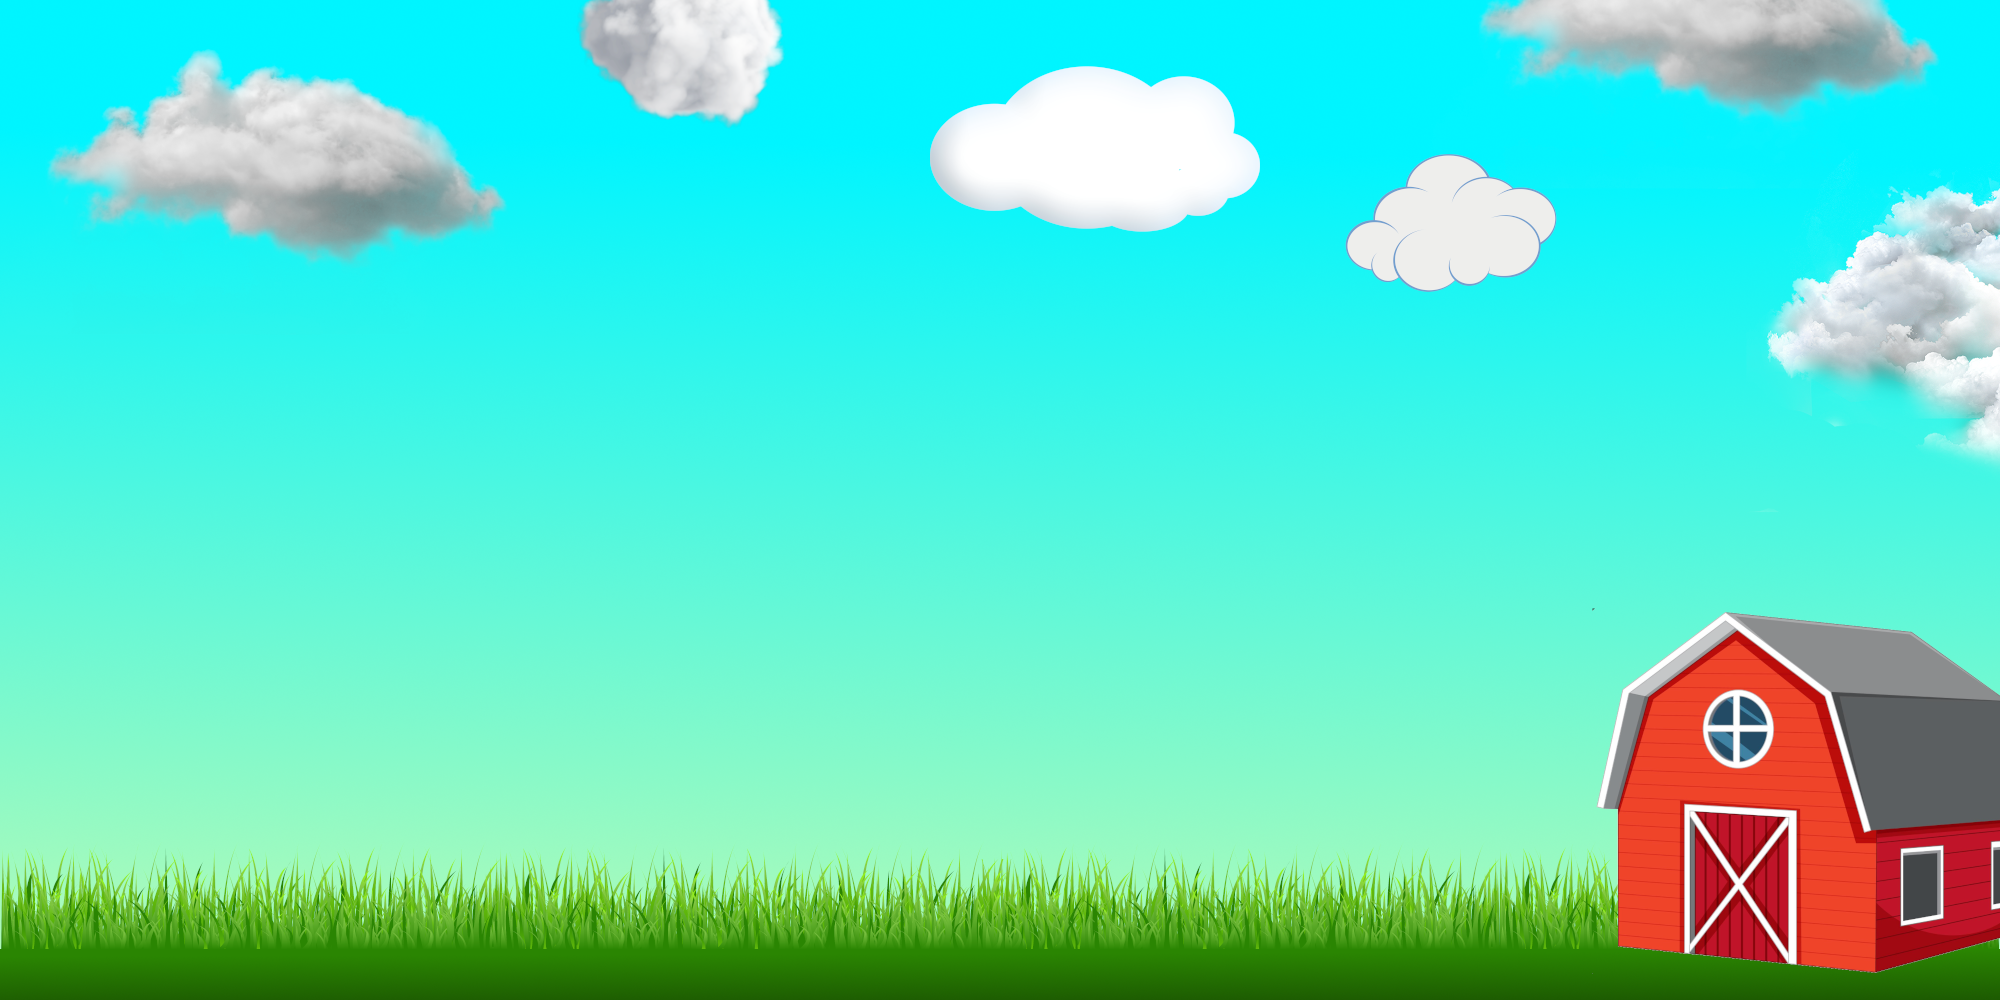
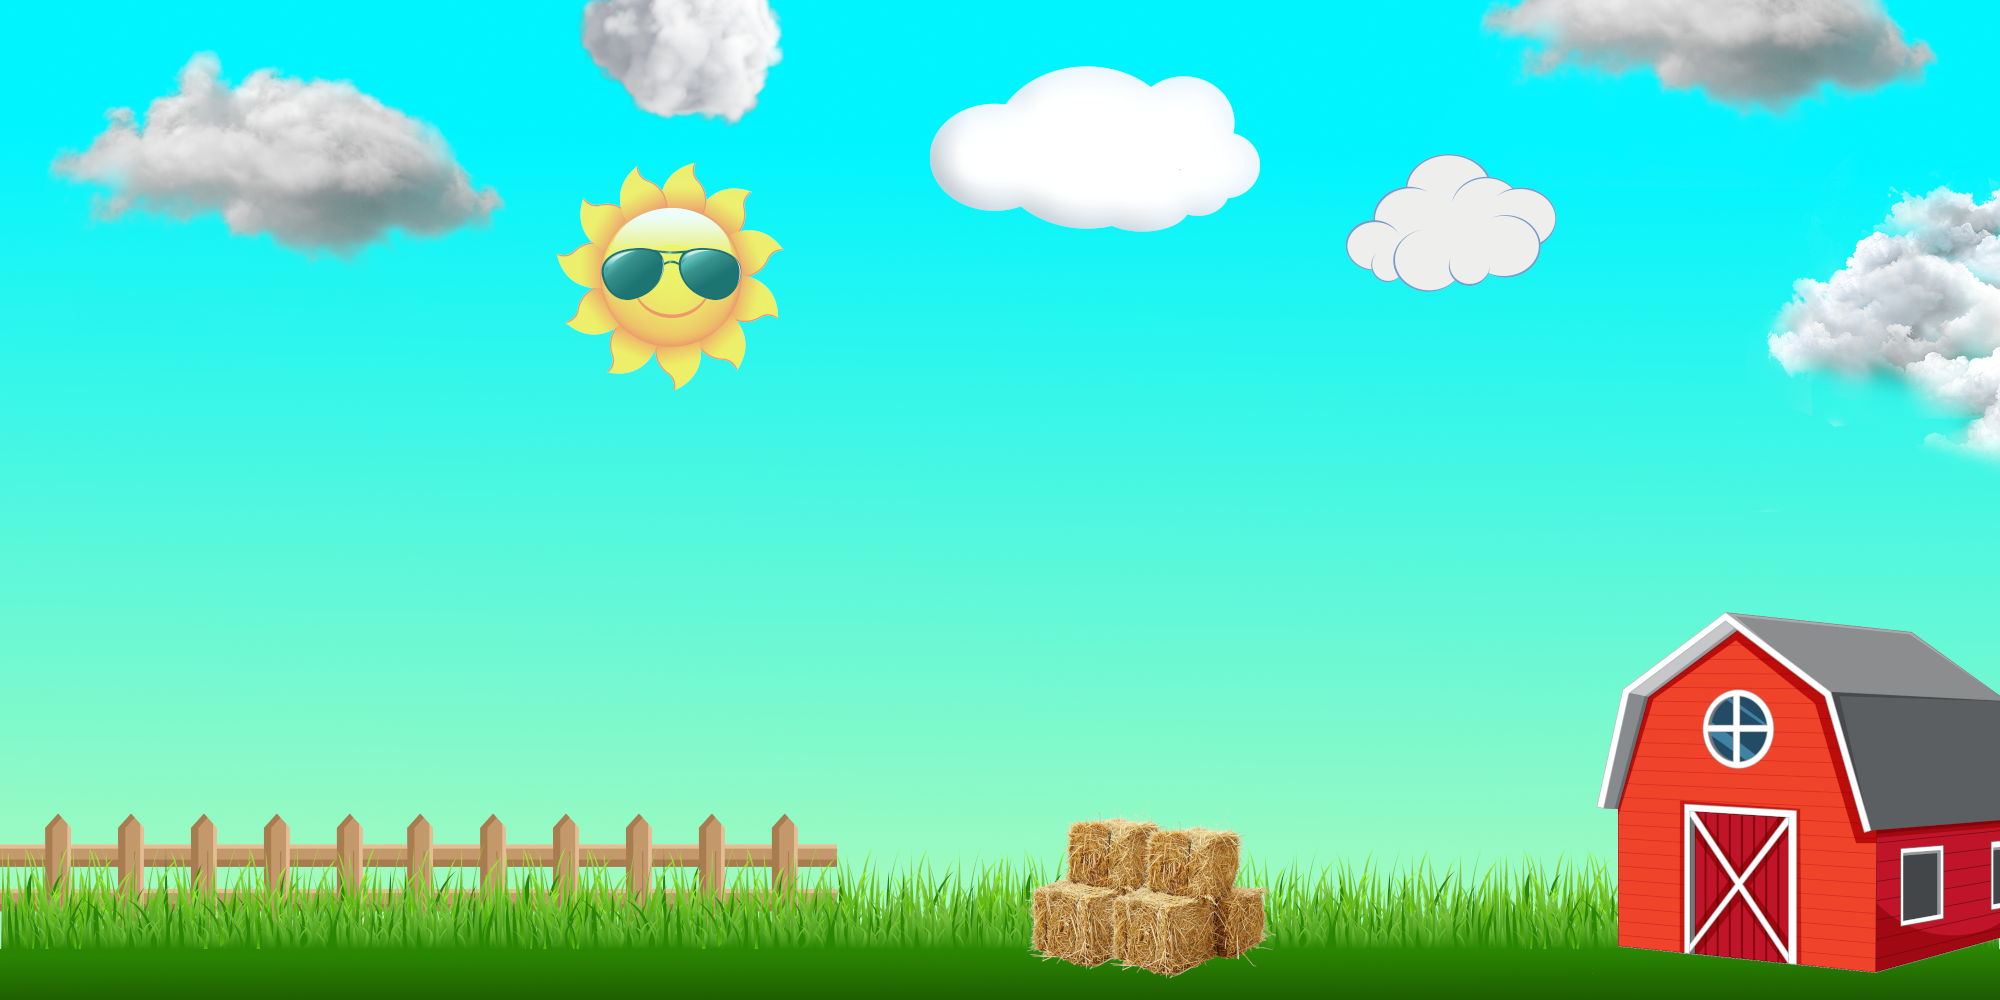
SHEEP UI

Changed region(s): [[0.0, 0.806, 0.434, 0.93], [0.279, 0.155, 0.403, 0.403], [0.496, 0.806, 0.651, 0.992]]

diff --git a/BaaaEditor.h b/BaaaEditor.h
@@ -8,6 +8,7 @@ class BaaaLookAndFeel : public juce::LookAndFeel_V4
     juce::Colour outlineColour = juce::Colours::lightcyan;
     juce::Colour innerColour = juce::Colours::darkgreen;
     juce::PathStrokeType stroke = juce::PathStrokeType(3.0f);
+    juce::Image sheepImage = juce::ImageCache::getFromMemory(BinaryData::sheep_png, BinaryData::sheep_pngSize);
 
     void drawLabel (juce::Graphics& g, juce::Label& label) override
     {
@@ -38,7 +39,7 @@ class BaaaLookAndFeel : public juce::LookAndFeel_V4
     void drawButtonBackground(juce::Graphics& g, juce::Button& button,const juce::Colour& backgroundColour,
                               bool isMouseOverButton, bool isButtonDown) override
     {
-        auto bounds = button.getLocalBounds().toFloat().reduced(10.0f).withTrimmedLeft(20.0f).withTrimmedRight(20.0f);
+        auto bounds = button.getLocalBounds().toFloat().reduced(10.0f).withTrimmedLeft(40.0f).withTrimmedRight(40.0f);
 
         float cornerSize = 4.0f;
 
@@ -61,15 +62,42 @@ class BaaaLookAndFeel : public juce::LookAndFeel_V4
                           juce::Slider& slider) override
     {
         auto bounds = juce::Rectangle<float>(x, y, width, height).reduced(25.0f);
-
         auto radius = juce::jmin(bounds.getWidth(), bounds.getHeight()) / 2.0f;
         auto centre = bounds.getCentre();
         auto angle = rotaryStartAngle + sliderPosProportional * (rotaryEndAngle - rotaryStartAngle);
 
-        // =====================
-        // 2. Indicator Arc
-        // =====================
+        // ==========================================
+        // Sheep Image (rotates with knob)
+        // ==========================================
 
+        if (!sheepImage.isNull())
+        {
+            // Scale image relative to knob size
+            // Adjust multiplier to taste (0.6–0.8 works well)
+            float imageSize = radius * 1.4f;   // diameter-ish scale
+
+            float imgW = imageSize;
+            float imgH = imageSize;
+
+            // Top-left so image is centered
+            float imgX = centre.x - imgW * 0.5f;
+            float imgY = centre.y - imgH * 0.5f;
+
+            // Create transform:
+            juce::AffineTransform transform;
+
+            transform = transform
+                .translated(-sheepImage.getWidth() * 0.5f,
+                            -sheepImage.getHeight() * 0.5f) // move image center to origin
+                .scaled(imgW / sheepImage.getWidth(),
+                        imgH / sheepImage.getHeight())     // scale to component size
+                .rotated(angle)                            // rotate around origin
+                .translated(centre.x, centre.y);           // move to knob center
+
+            g.drawImageTransformed(sheepImage, transform);
+        }
+
+        // Indicator Arc
         juce::Path valueArc;
         valueArc.addCentredArc(centre.x, centre.y,
                             radius, radius,
@@ -81,10 +109,7 @@ class BaaaLookAndFeel : public juce::LookAndFeel_V4
         g.setColour(juce::Colour::fromRGB(200, 255, 100)); // your active arc color
         g.strokePath(valueArc, stroke);
 
-        // =====================
-        // 3. Indicator Dot
-        // =====================
-
+        // Indicator Dot
         auto dotRadius = 8.0f;
         auto dotPoint = centre.getPointOnCircumference(radius, angle);
 
@@ -94,22 +119,19 @@ class BaaaLookAndFeel : public juce::LookAndFeel_V4
                     dotRadius * 2.0f,
                     dotRadius * 2.0f);
 
-        // =====================
-        // 4. Value Text (CENTERED)
-        // =====================
+        // 4. Value Text
         juce::String valueText = slider.getTextFromValue(slider.getValue());
-
-        juce::Font font(30.0f, juce::Font::bold);
+        juce::Font font(juce::FontOptions("Comic Sans MS", 30.0f, juce::Font::plain));
 
         // Create glyph layout
         juce::GlyphArrangement glyphs;
         glyphs.addFittedText(font,
                             valueText,
                             bounds.getX(),
-                            bounds.getY(),
+                            bounds.getY() - 20,
                             bounds.getWidth(),
                             bounds.getHeight(),
-                            juce::Justification::centred,
+                            juce::Justification::centredTop,
                             1);
 
         // Convert to path
@@ -134,7 +156,7 @@ class BaaaLookAndFeel : public juce::LookAndFeel_V4
 
         juce::String text = button.getButtonText(); // "+" or "-"
 
-        juce::Font font(20.0f, juce::Font::bold);
+        juce::Font font(juce::FontOptions("Comic Sans MS", 20.0f, juce::Font::plain));
 
         juce::GlyphArrangement glyphs;
         glyphs.addFittedText(font,
@@ -157,6 +179,51 @@ class BaaaLookAndFeel : public juce::LookAndFeel_V4
         g.setColour(juce::Colours::lemonchiffon);
         g.fillPath(textPath);
     }
+};
+
+
+class SliderValueOverlay : public juce::Component
+{
+public:
+    SliderValueOverlay(juce::Slider& s) : slider(s)
+    {
+        slider.onValueChange = [this] { repaint(); };
+        setInterceptsMouseClicks(false, false);
+    }
+
+    void paint(juce::Graphics& g) override
+    {
+        auto bounds = getLocalBounds().toFloat();
+
+        juce::String text =
+            slider.getTextFromValue(slider.getValue());
+
+        juce::Font font(juce::FontOptions("Comic Sans MS", 40.0f, juce::Font::plain));
+
+        juce::GlyphArrangement glyphs;
+        glyphs.addFittedText(font,
+                             text,
+                             bounds.getX(),
+                             bounds.getY(),
+                             bounds.getWidth(),
+                             bounds.getHeight(),
+                             juce::Justification::centred,
+                             1);
+
+        juce::Path path;
+        glyphs.createPath(path);
+
+        // Outline
+        g.setColour(juce::Colours::saddlebrown);
+        g.strokePath(path, juce::PathStrokeType(3.0f));
+
+        // Fill
+        g.setColour(juce::Colours::lemonchiffon);
+        g.fillPath(path);
+    }
+
+private:
+    juce::Slider& slider;
 };
 
 //==============================================================================
@@ -193,7 +260,11 @@ public:
     juce::Label falloffLabel;
 
     juce::Image backgroundImage;
+    juce::Image sheepImage;
     BaaaLookAndFeel customLook;
+
+    std::unique_ptr<SliderValueOverlay> upOverlay;
+    std::unique_ptr<SliderValueOverlay> downOverlay;
 
 private:
     // This reference is provided as a quick way for your editor to
@@ -211,8 +282,8 @@ private:
     const float textSizeLarge = 30.0f;
     const float textSizeSmall = 20.0f;
     
-    const juce::Font fontLarge = juce::Font(juce::FontOptions("Comic Sans MS", 30.0f, juce::Font::plain));
-    const juce::Font fontSmall = juce::Font(juce::FontOptions("Comic Sans MS", 20.0f, juce::Font::plain));
+    const juce::Font fontLarge = juce::Font(juce::FontOptions("Comic Sans MS", 35.0f, juce::Font::plain));
+    const juce::Font fontSmall = juce::Font(juce::FontOptions("Comic Sans MS", 25.0f, juce::Font::plain));
 
 };
 

diff --git a/BaaaEditor.cpp b/BaaaEditor.cpp
@@ -7,7 +7,7 @@
 void BaaaPluginAudioProcessorEditor::stylizeSlider(juce::Label &l, juce::Slider &s, juce::String str) {
     // Stylize the slider
     s.setSliderStyle(juce::Slider::RotaryHorizontalVerticalDrag);
-    s.setTextBoxStyle(juce::Slider::NoTextBox, false, 100, 20);
+    s.setTextBoxStyle(juce::Slider::NoTextBox, true, 0, 0);
     s.setColour(juce::Slider::textBoxTextColourId, juce::Colours::darkslategrey);
 
     // Stylize the label
@@ -22,8 +22,8 @@ void BaaaPluginAudioProcessorEditor::stylizeSlider(juce::Label &l, juce::Slider 
 void BaaaPluginAudioProcessorEditor::stylizeStepper(juce::Label &l, juce::Slider &s, juce::String str) 
 {
     s.setSliderStyle(juce::Slider::IncDecButtons);
-    s.setRange(0, 10, 1);
-    s.setTextBoxStyle(juce::Slider::TextBoxBelow, false, 80, 50);
+    s.setRange(0, 5, 1);
+    s.setTextBoxStyle(juce::Slider::NoTextBox, true, 0, 0);
 
     l.setText(str, juce::dontSendNotification);
     l.setFont(fontSmall);
@@ -73,10 +73,15 @@ BaaaPluginAudioProcessorEditor::BaaaPluginAudioProcessorEditor (BaaaPluginAudioP
     falloffAttachment = std::make_unique<juce::AudioProcessorValueTreeState::SliderAttachment>(
         p.apvts, "falloff", falloffSlider);
 
+    upOverlay = std::make_unique<SliderValueOverlay>(upDupeSlider);
+    addAndMakeVisible(upOverlay.get());
+    downOverlay = std::make_unique<SliderValueOverlay>(downDupeSlider);
+    addAndMakeVisible(downOverlay.get());
+
     // Make sure that before the constructor has finished, you've set the
     // editor's size to whatever you need it to be.
     setResizable(true, false);
-    setResizeLimits(500, 400, 2000, 1000);
+    setResizeLimits(700, 400, 2000, 1000);
     setSize (1000, 500);
 }
 
@@ -121,7 +126,7 @@ void BaaaPluginAudioProcessorEditor::resized()
     int half = area.getHeight() / 2;
 
     auto knobRow = area.removeFromTop(half + 50);
-    auto bottomRow = area.removeFromTop(half - 100);
+    auto bottomRow = area.removeFromTop(100);
 
     int knobWidth = knobRow.getWidth() / 4;
 
@@ -133,4 +138,7 @@ void BaaaPluginAudioProcessorEditor::resized()
     int stepWidth = bottomRow.getWidth() / 2;
     upDupeSlider.setBounds(bottomRow.removeFromLeft(stepWidth));
     downDupeSlider.setBounds(bottomRow);
+
+    upOverlay->setBounds(upDupeSlider.getBounds());
+    downOverlay->setBounds(downDupeSlider.getBounds());
 }
